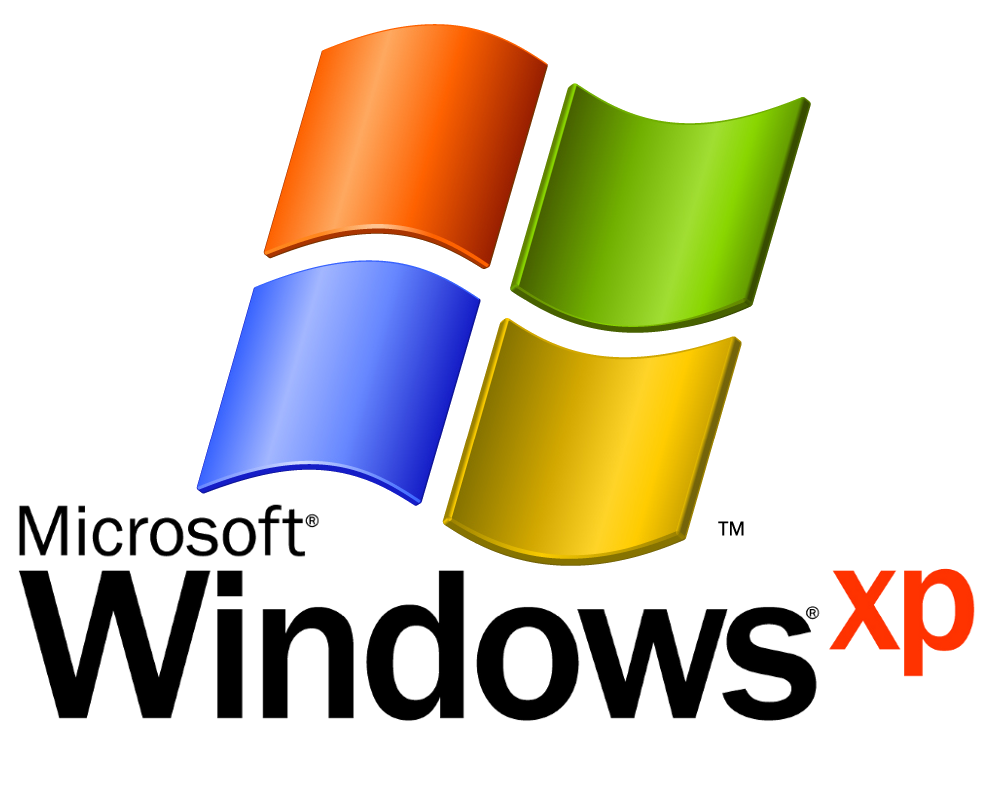
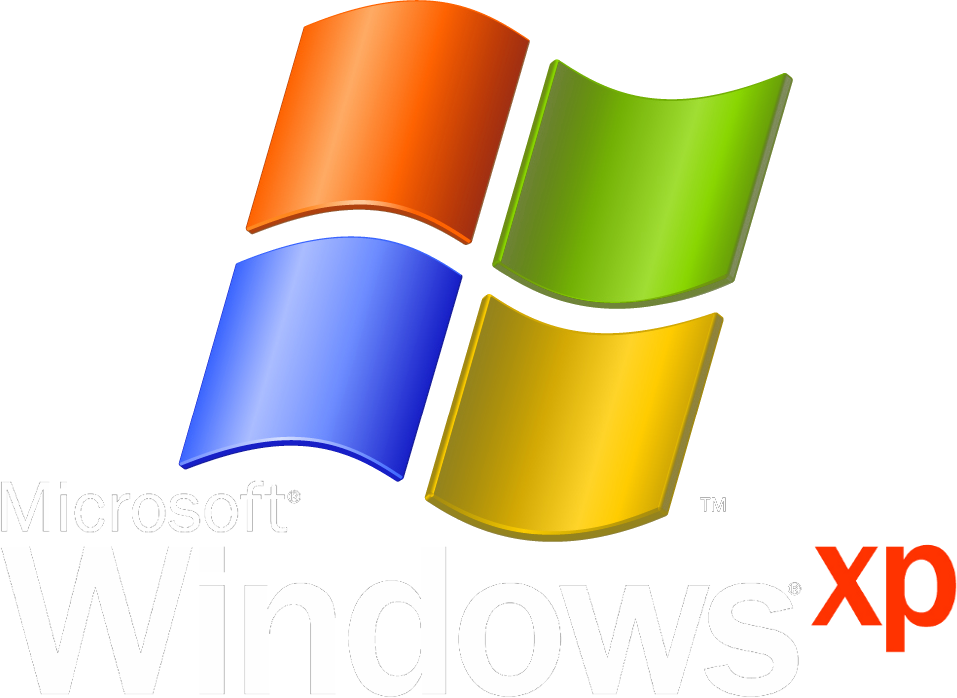
인트로 변경

diff --git a/css/main.css b/css/main.css
@@ -1,24 +1,32 @@
 @import url('https://fonts.googleapis.com/css2?family=Noto+Sans+KR:wght@300;500;700&display=swap');
 /* font-family: 'Noto Sans KR', sans-serif; */
 
-*{margin: 0; padding: 0;}
+*{margin: 0; padding: 0; box-sizing: border-box;}
 li{list-style: none;}
 a{text-decoration: none;}
 img{border: none;}
 body, section, nav, ul, li, a, div, p{font-family: 'Noto Sans KR', sans-serif; font-size: 16px; font-weight: 300; color: #000;}
 
-#wallpaper{position: relative; background-image: url(../img/main.jpg); width: 100vw; height: 100vh; background-size: cover;}
+#boot{position: absolute; width: 100vw; height: 100vh; z-index: 9999; background-color: #000; display: none;}
+#boot .bootImg{position: absolute; left: 51%; top: 50%; transform: translate(-50%,-50%); width: 386px; margin-top: -60px;}
+#boot .loading{position: absolute; left: 50%; top: 50%; transform: translate(-50%,-50%); width: 230px; height: 28px; border: 2px solid #fff; border-radius: 8px; margin-top: 200px; display: flex;}
+#boot .gaze{
+    width: 16.5px; height: 19px; margin-top: 2px; margin-left: 2px; border-radius: 1px;
+    background: linear-gradient( to bottom, #393d6f, #51589a, #7d92ea, #7d92ea, #7d92ea, #7d92ea, #7d92ea, #243aa7, #243aa7, #23338c);
+}
+
+#desktop{position: relative; background-image: url(../img/main.jpg); width: 100vw; height: 100vh; background-size: cover;}
 
 .icons{position: relative; display: flex; flex-flow: column wrap; align-content: flex-start; height: 90vh;}
 .icons>li>a{display: block; width: 80px; height: 80px; background-color: #ccc; margin: 20px;}
 
-.taskBar{position: absolute; left: 0; bottom: 0; width: 100vw; height: 40px;
+.taskBar{position: absolute; left: 0; bottom: 0; width: 100vw; height: 40px; border-right: 1px solid #173976; display: flex;
     background: linear-gradient( to bottom, #2561de, #4993e6, #2561de, #2561de, #2561de, #2561de, #2561de, #2561de, #2561de, #143ca0);}
-.taskBar>.start{position: absolute; display: flex; left: 0; top: 0; width: 120px; height: 40px; border-radius: 0 18px 18px 0; box-shadow: 3px 0px 5px rgba(0,0,0,0.3); flex-flow: row wrap; justify-content: center; align-items: center;
+.taskBar .start{position: absolute; display: flex; left: 0; top: 0; width: 120px; height: 40px; border-radius: 0 18px 18px 0; box-shadow: 3px 0px 5px rgba(0,0,0,0.3); flex-flow: row wrap; justify-content: center; align-items: center;
     background: linear-gradient( to bottom, #47ab47, #83bd87, #47ab47, #47ab47, #47ab47, #47ab47, #47ab47, #47ab47, #47ab47, #47ab47);}
-.taskBar>.start>img{width: 30px; height: 30px; align-self: center; margin-right: 5px; text-indent: -7px;}
-.taskBar>.start>p{font-size: 20px; color: #fff; line-height: 40px; text-indent: -7px;}
-.taskBar>.toolBox{position: absolute; right: 0; top: 0; text-align: center; display: flex; flex-flow: row wrap;
-    background: linear-gradient( to bottom, #0d8dea, #16adf0, #0d8dea, #0d8dea, #0d8dea, #0d8dea, #0d8dea, #0d8dea, #0d8dea, #2561de);}
-.taskBar>.toolBox>a{display: block; color: #fff; width: 25px; line-height: 22.5px; height: 25px; margin: 7.5px 10px 0; border: 1px solid #fff; box-sizing: border-box; font-size: 14px; border-radius: 2px; font-weight: 300;}
-.taskBar>.toolBox>p{color: #fff; line-height: 40px; margin-right: 10px;}
+.taskBar .start>img{width: 30px; height: 30px; align-self: center; margin-right: 5px; text-indent: -7px;}
+.taskBar .start>p{font-size: 20px; color: #fff; line-height: 40px; text-indent: -7px;}
+.taskBar .toolBox{position: absolute; right: 0; top: 0; text-align: center; display: flex; flex-flow: row wrap;
+    background: linear-gradient( to bottom, #0d8dea, #16adf0, #0d8dea, #0d8dea, #0d8dea, #0d8dea, #0d8dea, #0d8dea, #0d8dea, #2561de); border-left: 1px solid #26cdf9;}
+.taskBar .taskBarInner .lang{position: absolute; right: 0; top: 0; display: block; color: #fff; width: 25px; line-height: 22.5px; height: 25px; margin: 7.5px 10px 0; border: 1px solid #fff; box-sizing: border-box; font-size: 14px; border-radius: 2px; font-weight: 300;} 
+.taskBar .toolBox>p{color: #fff; line-height: 40px; margin-right: 10px;}

diff --git a/index.html b/index.html
@@ -5,16 +5,57 @@
     <meta http-equiv="X-UA-Compatible" content="IE=edge">
     <meta name="viewport" content="width=device-width, initial-scale=1.0">
     <title>Bae Minseong &#124; PORTPOLIO</title>
-    <style>
-        *{margin: 0; padding: 0;}
-
-        #booting{position: relative; width: 100vw; height: 100vh;}
-        #booting .logo{position: absolute; left: 50%; top: 50%; transform: translate(-50%,-50%); width: 500px;}
-    </style>
+    <link rel="stylesheet" href="css/main.css" type="text/css">
 </head>
 <body>
-    <section id="booting">
-        <img class="logo" src="img/boot.png" alt="">
+    <!-- Boot S -->
+    <section id="boot">
+        <img class="bootImg" src="img/boot.png" alt="윈도우 부팅이미지">
+        <div class="loading">
+            <div class="gaze"></div>
+            <div class="gaze"></div>
+            <div class="gaze"></div>
+            <div class="gaze"></div>
+            <div class="gaze"></div>
+            <div class="gaze"></div>
+            <div class="gaze"></div>
+            <div class="gaze"></div>
+            <div class="gaze"></div>
+            <div class="gaze"></div>
+            <div class="gaze"></div>
+            <div class="gaze"></div>
+        </div>
+        <p style="color: #fff;">본 페이지는 상업적 목적이 아닌 개인 포트폴리오 용도로 제작되었습니다.<br>Copyright &copy; BaeMinseong</p>
+    </section>
+    <!-- Boot E -->
+
+    <div class="fixed">
+        
+    </div>
+
+    <section id="desktop">
+        <ul class="icons">
+            <li><a href="#"></a></li>
+            <li><a href="#"></a></li>
+            <li><a href="#"></a></li>
+            <li><a href="#"></a></li>
+            <li><a href="#"></a></li>
+            <li><a href="#"></a></li>
+            <li><a href="#"></a></li>
+            <li><a href="#"></a></li>
+        </ul>
+        <section class="taskBar">
+            <div class="taskBarInner">
+                <a href="#" class="start"><img src="img/start.jpg" alt=""><p>시작</p></a>
+                <ul>
+                    <li></li>
+                </ul>
+                <a href="#" class="lang">A</a>
+            </div>
+            <div class="toolBox">
+                <p class="time">오전 00:00</p>
+            </div>
+        </section>
     </section>
 </body>
 </html>
